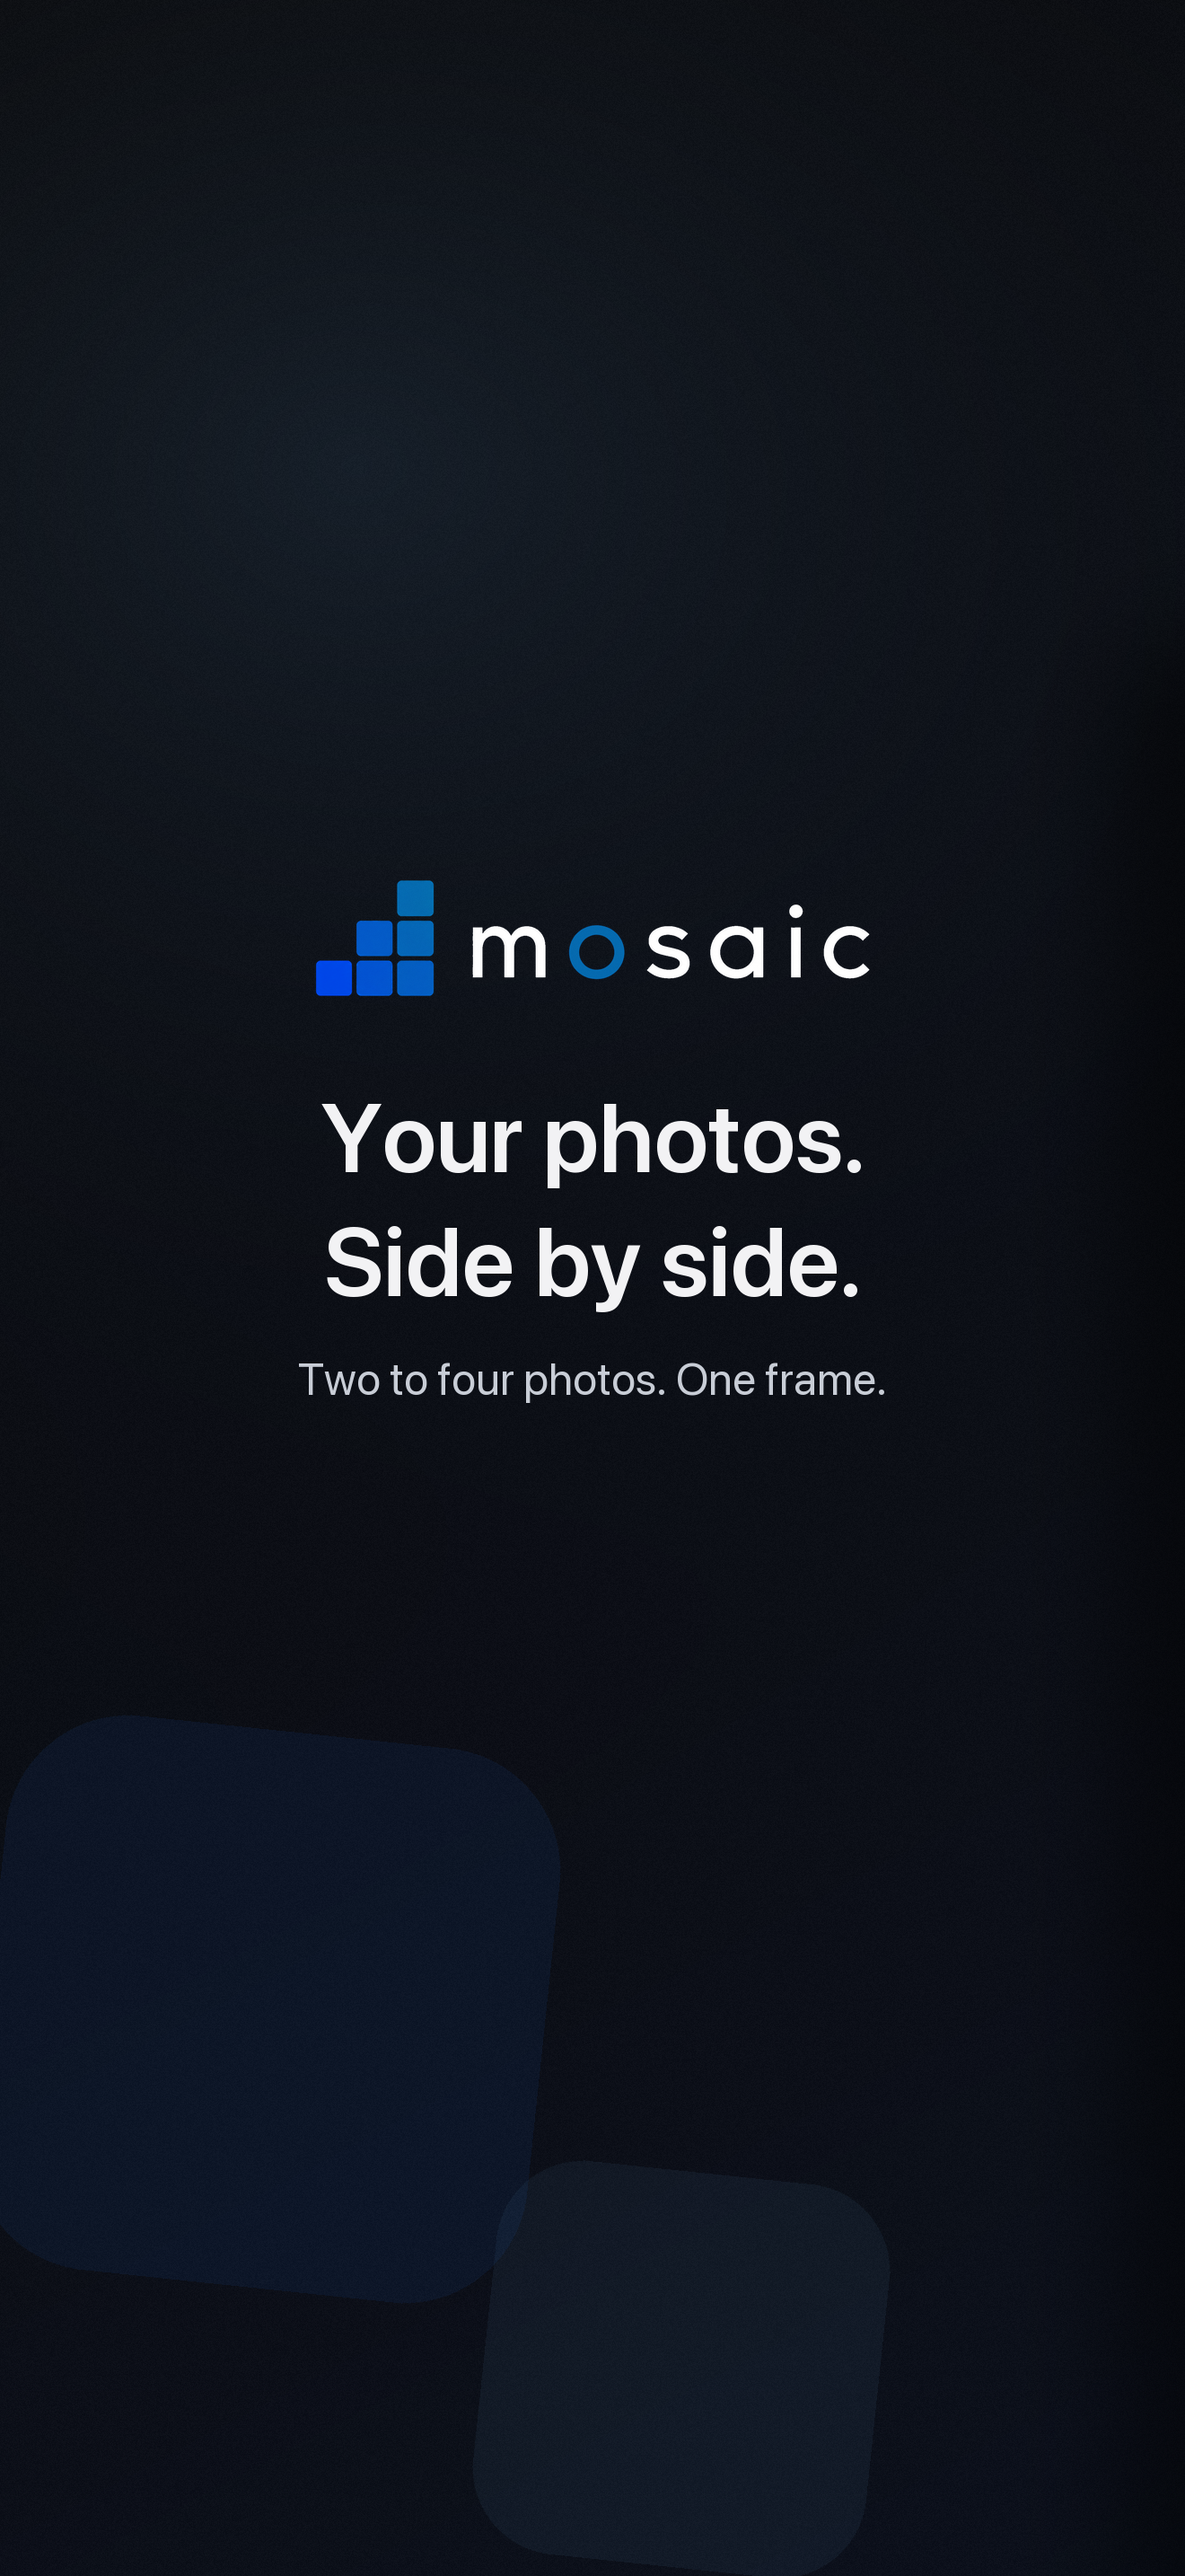
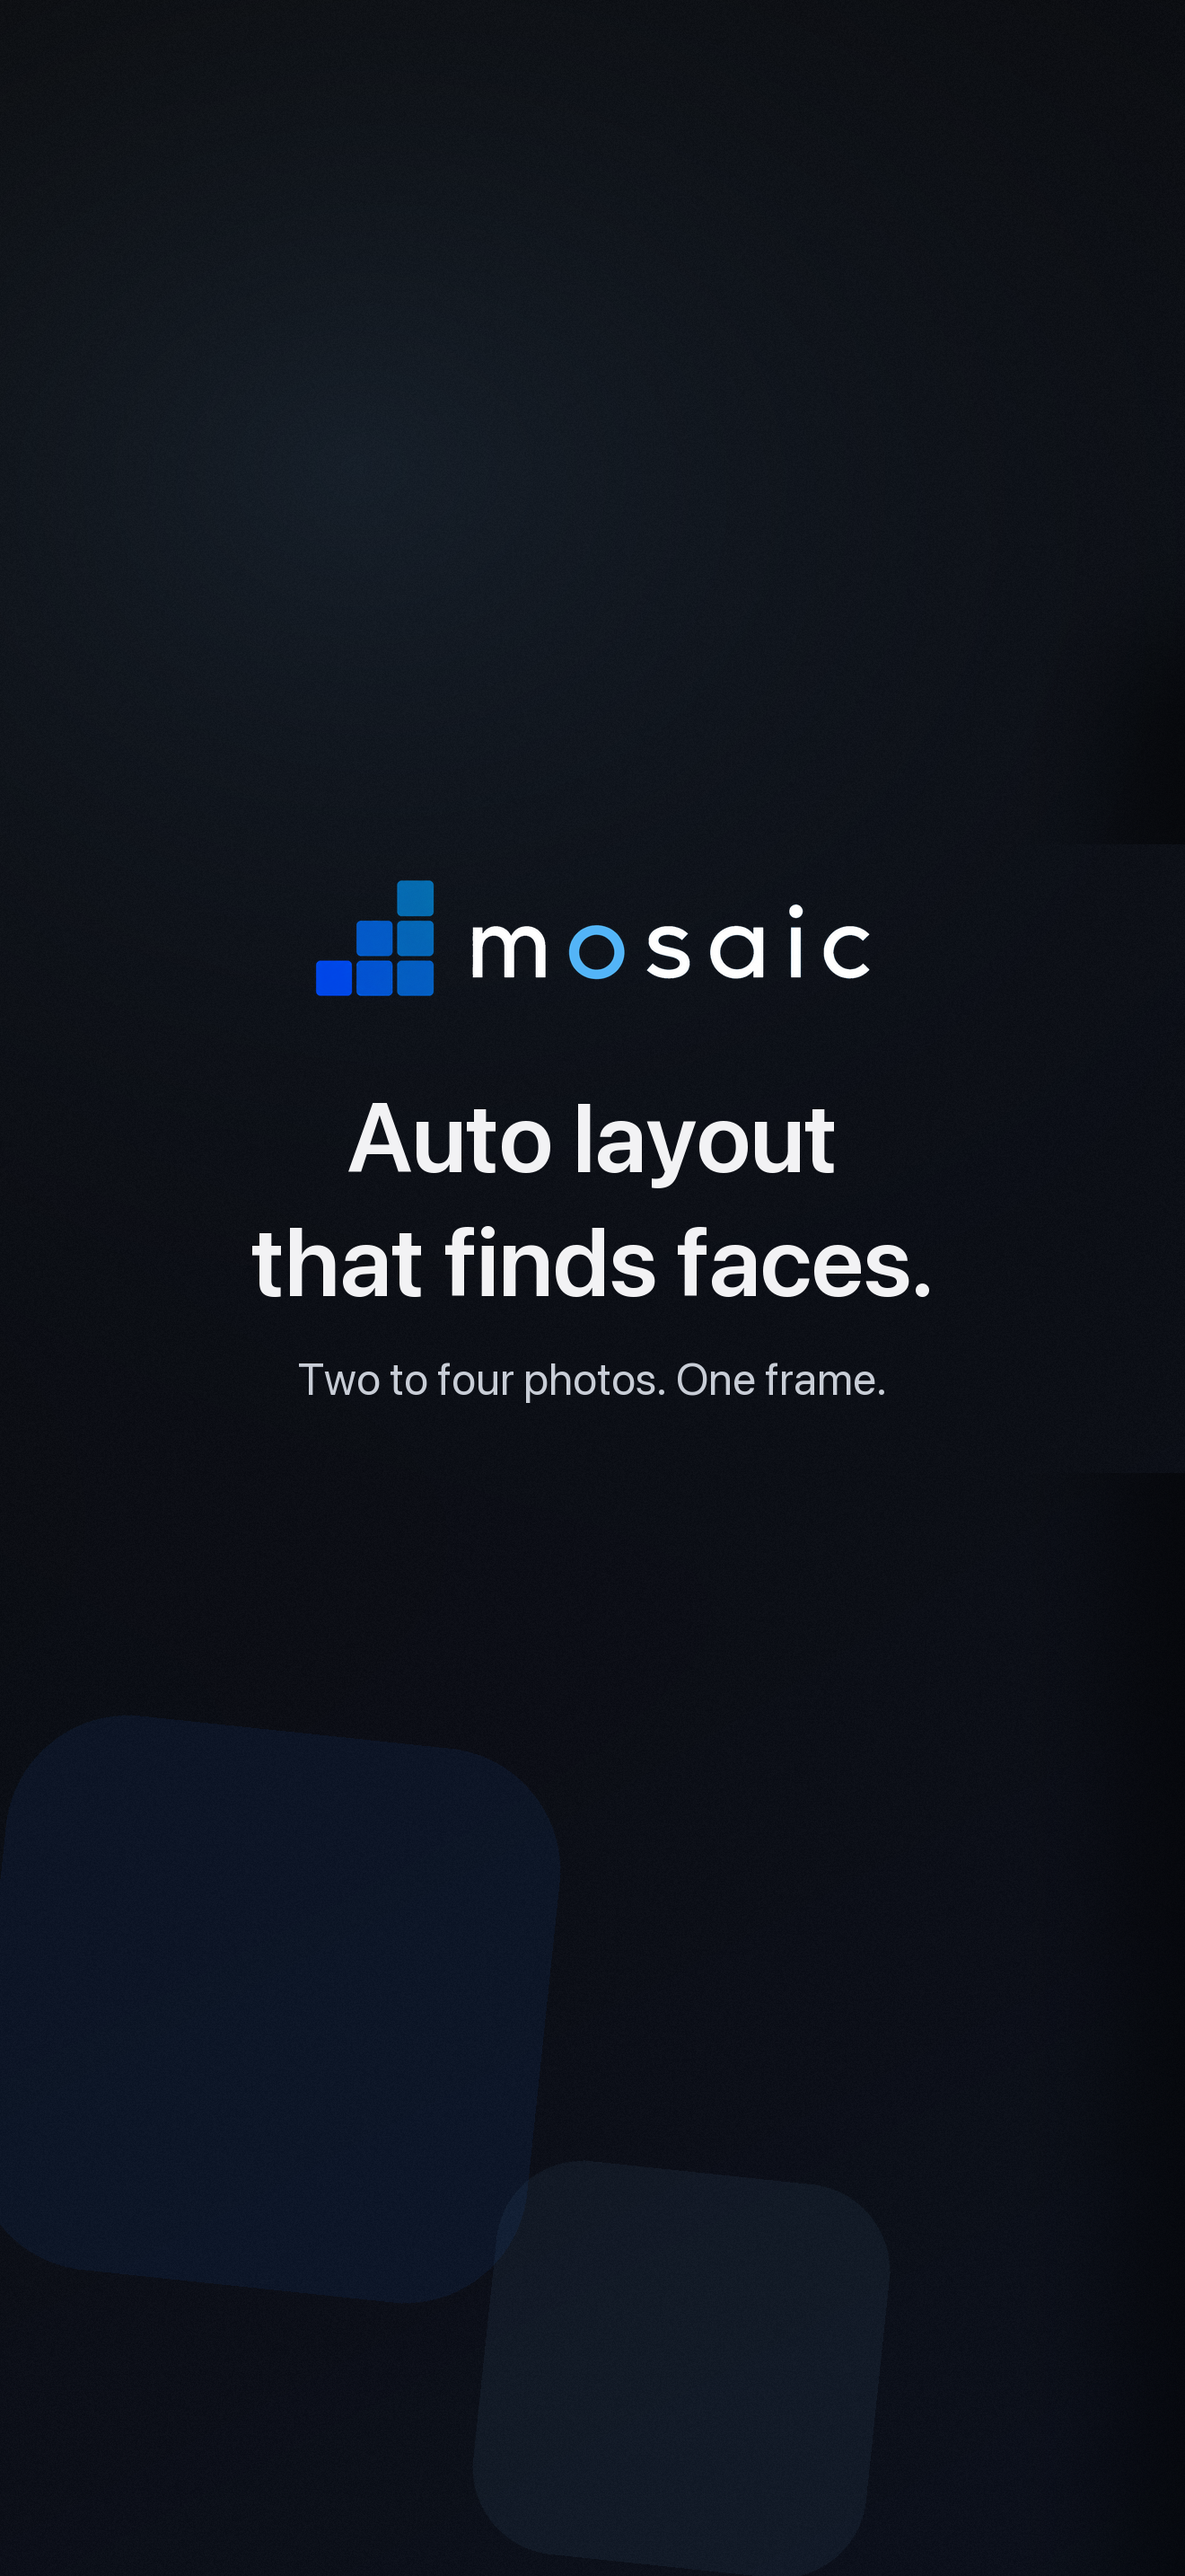
The headline is "Auto layout that finds faces" - subtitle, panel 1, everywhere
Justin's call, 2026-08-06: the selling points are auto layout, face
finding, fully adjustable, and "Your photos. Side by side." said none
of them. Panel 1 re-rendered in place (deterministic background, same
recipe as the panel-5 caption fix) with the new headline AND the
current light-blue-o lockup asset - the old render predated the
recolor. ASC subtitle updated by Justin directly; note his entered
form carries the trailing period.

Changed region(s): [[0.2174, 0.4344, 0.7765, 0.5275], [0.4659, 0.3414, 0.528, 0.4034]]

diff --git a/_store/build_banner.py b/_store/build_banner.py
@@ -278,7 +278,11 @@ def main():
     lockup_y = 980
     canvas.alpha_composite(lockup_r, (lockup_x, lockup_y))
 
-    headline1 = "Your photos.\nSide by side."
+    # "Auto layout that finds faces" - Justin, 2026-08-06: THE headline from
+    # now on (also the App Store subtitle). Replaced "Your photos.\nSide by
+    # side." - the selling points are auto layout, face finding, fully
+    # adjustable, and the old line said none of them.
+    headline1 = "Auto layout\nthat finds faces."
     y = lockup_y + lockup_h + 90
     for line in headline1.split("\n"):
         lw = draw.textlength(line, font=f_promise)

diff --git a/App Store Listing.md b/App Store Listing.md
@@ -2,7 +2,7 @@
 title: "App Store Listing - Mosaic"
 created: 2026-07-26
 modified: 2026-08-06
-version: 2.1
+version: 2.2
 author: Claude Fable 5 (claude-fable-5)
 tags:
 ---
@@ -19,7 +19,7 @@ Carries the brand plus the two highest-intent search terms. Alternate if App Rev
 
 ## Subtitle (30 char limit)
 
-**Grid editor, faces auto-framed** (exactly 30)
+**Auto layout that finds faces.** (29) - chosen by Justin 2026-08-06; also THE marketing headline from now on (screenshot panel 1, and anywhere a tagline is needed). Selling points it carries: auto layout + face finding; "fully adjustable" lives in the description.
 
 Adds four new ranking words (grid, editor, faces, auto-framed) and states the differentiator. Alternates:
 - "Clean, quick, nothing to learn" (30)
